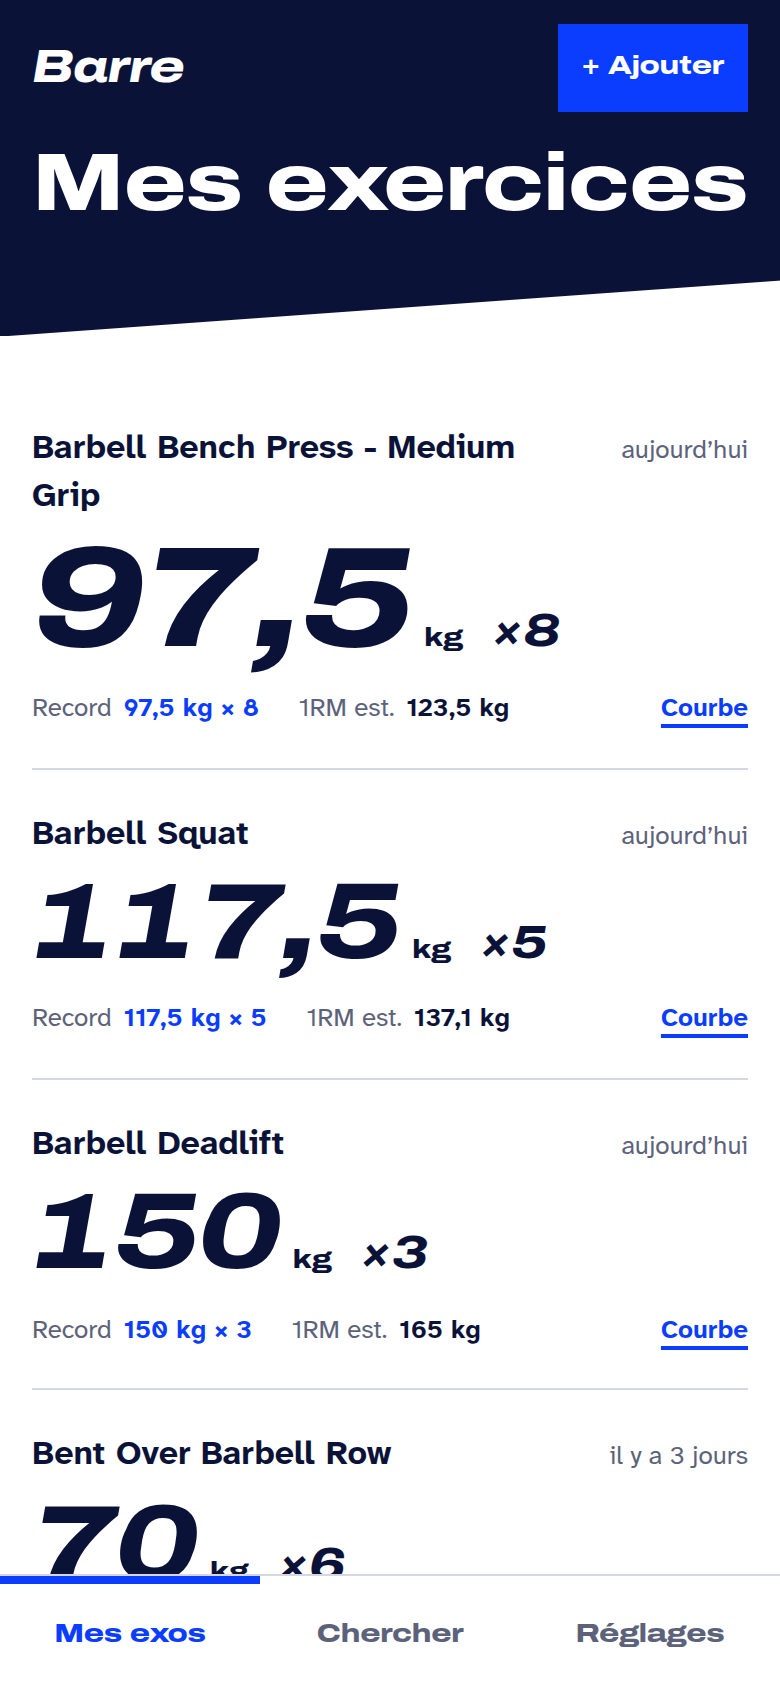
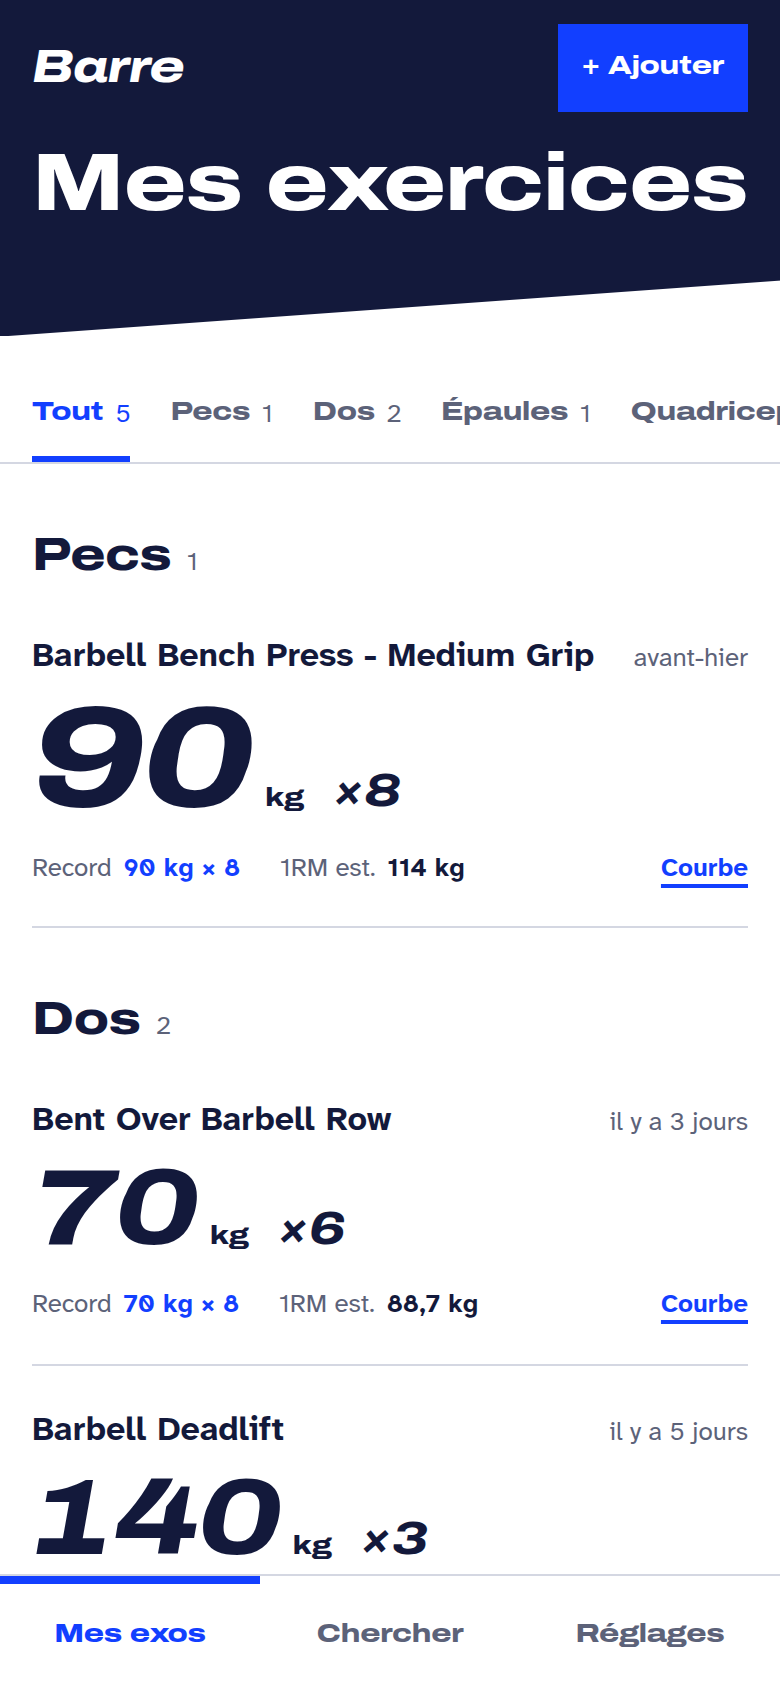
docs: captures du README à jour (sections par groupe musculaire)
- Accueil avec la barre de groupes
- Nouvelle capture d'un groupe filtré (Dos)

diff --git a/README.md b/README.md
@@ -10,13 +10,14 @@ Aucun compte, tout reste dans le navigateur. Sur l’accueil vide, « Ou essayer
 10 semaines fictives » remplit l’app d’un historique de démonstration.
 
 <p align="center">
-  <img src="docs/screenshots/accueil.png" width="200" alt="Accueil : dernière charge en très gros chiffres pour chaque exercice" />
+  <img src="docs/screenshots/accueil.png" width="200" alt="Accueil rangé par groupe musculaire, dernière charge en très gros chiffres" />
   <img src="docs/screenshots/seance.png" width="200" alt="Saisie d’une séance pré-remplie avec des boutons ±2,5 kg" />
   <img src="docs/screenshots/record.png" width="200" alt="Écran bleu nuit d’un nouveau record" />
 </p>
 <p align="center">
   <img src="docs/screenshots/progression.png" width="200" alt="Record, graphique de progression et historique" />
   <img src="docs/screenshots/recherche.png" width="200" alt="Recherche d’exercices en français" />
+  <img src="docs/screenshots/groupes.png" width="200" alt="Un tap sur « Dos » : seuls les exercices de dos restent affichés" />
 </p>
 
 ## Ce que fait l’app
